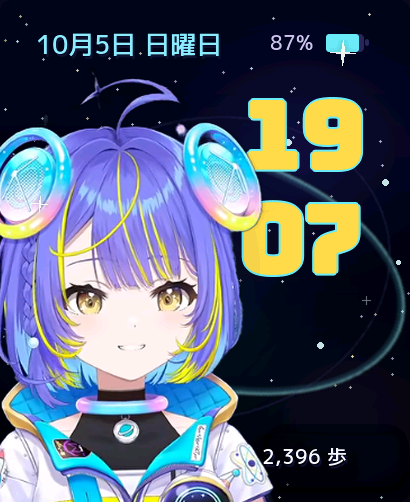
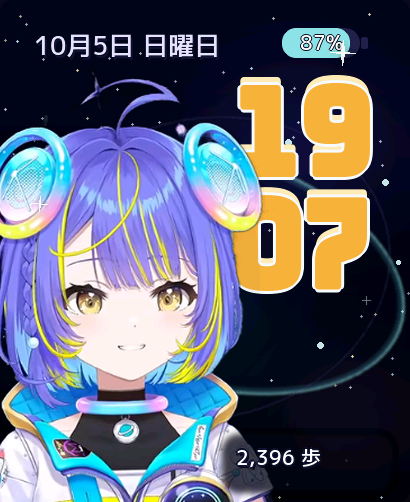
docs: v6.2 (上光・112px・縦伸ばし) と T33 の追い込みを記録
- theme-format: highlight/highlight_dy の節
- theme-guide: font_mono --yscale と font 112 の手順
- roadmap T33: 数字の拡大/縦長、二色塗り、電池の重ね、歩数の下地
- handoff: v6.2 の追加キーと font 112
- screenshots: 96 を再撮影

diff --git a/docs/roadmap.md b/docs/roadmap.md
@@ -886,6 +886,19 @@ T14 の「要判断」4件は変更しない。行の補足テキストを -14px
 - 検証: core 232 件、sim 監査 0 件 (docs/screenshots/96..99)、firmware build
   (app 空き 31%)、実機へアプリ + assets を書き込み済み。
 
+追い込み (2026-10-25 ユーザー指摘: 数字を大きく/縦長、原色べた塗りがダサい、
+歩数をもっと左、電池の数値とゲージを重ねる):
+- 数字: Bungee を `font_mono.py --yscale 1.14` で縦長化し、`--size 112` で
+  digits_112.bin (96px の 1.17 倍の高さ)。`face_layout.*.font = 112`。
+  幅はそのまま (1 文字 69.8px) なので右端 374px で安全域に収まる。
+- 塗り: `highlight` (v6.2) で上端にクリーム色の光、外周は白い `outline` 3px。
+  塗り #F2B33D / 上光 #FFF6D8 (原色のべた塗りを避ける)。
+- 電池: `battery` (テキスト) を `battery_gauge` の矩形に重ねて内側に % を出す。
+  描画順は gauge → テキスト (build() で gauge を先に作る)。
+- 歩数: 立ち絵レイヤー (compose_layer.py) に焼く下地を [222,434,392,492] に
+  広げ、テキストを x=236 で中央寄せ (右端 377 = 余白 32 の内側)。
+- 検証: core 232 件、sim 監査 0 件 (再撮影)、firmware build、実機書き込み。
+
 状態: 実機で見た目確認待ち
 
 ## 第2弾の実施順

diff --git a/docs/handoff.md b/docs/handoff.md
@@ -34,6 +34,12 @@
   `ThemeFaceElem::set` は uint32 (bit16..18)。最初の適用先は `themes/sopia/`
   (Bungee 数字 + 立ち絵の後ろに時刻)。実機書き込み済み (2026-10-25)。
   縁取りは 1 要素あたり最大 5 ラベル増えるので、96px 級に多用するときは `b` で確認。
+- v6.2 (2026-10-25): `highlight`/`highlight_dy` (本体を `highlight_dy` 上に
+  ずらして背面に置き、ストローク上端だけ明るく見せる上光) を追加。
+  数字フォントのサイズ許可値に **112** を追加 (tokens と `face_layout.*.font`)。
+  `tools/font_mono.py --yscale` でグリフを縦に伸ばせる (Bungee 112px + 1.14
+  → 縦長数字)。電池は `battery` (テキスト) を `battery_gauge` の矩形に重ねて
+  % を内側に出す (gauge を先に作るのでテキストが上になる)。
   **注意**: 実機の assets に入っている cute.zip は、リポジトリの `android/.../themes/cute.zip`
   より古い (bg.png が b6dd640 以前のもの)。必要なら assets イメージを作り直して書く。
 - 2026-10-19 に描画を作り直した (T29)。standard テーマで全面再描画 85〜112ms → 40〜68ms。

diff --git a/docs/theme-guide.md b/docs/theme-guide.md
@@ -91,7 +91,11 @@ powermenu alarm notifications media agent alert` と `"*"`。
   `"fonts": {"digits": "digits.bin"}`
 - **数字を等幅に**: 書体の数字が等幅でないと、分が変わるたびに 2 桁の幅が変わって
   数字が揺れる。`python3 tools/font_mono.py in.ttf out.ttf` で等幅化してから
-  binfont にする (例: Bungee → sopia の digits_96.bin)
+  binfont にする (例: Bungee → sopia の digits_112.bin)
+- **数字を縦に伸ばす**: `font_mono.py --yscale 1.14` でグリフだけ背高にできる
+  (幅は変わらないので、大きくしても横に広がらない)。その後 `--size 112` で
+  binfont 化し、`face_layout` の `font` に **112** を書く
+  (`font` は 20/26/56/96/112 のいずれか。96 以下は従来のスロット、112 は数字用の大きいスロット)
 - **マスコット / 文字盤**: `mascot` / `face_layout` (書式は theme-format.md)
 - **時刻を分けて組む**: `face_layout` の `time_h` / `time_m` に分けると
   「19」と「07」を別々の位置・大きさで置ける (縦積みも可)
